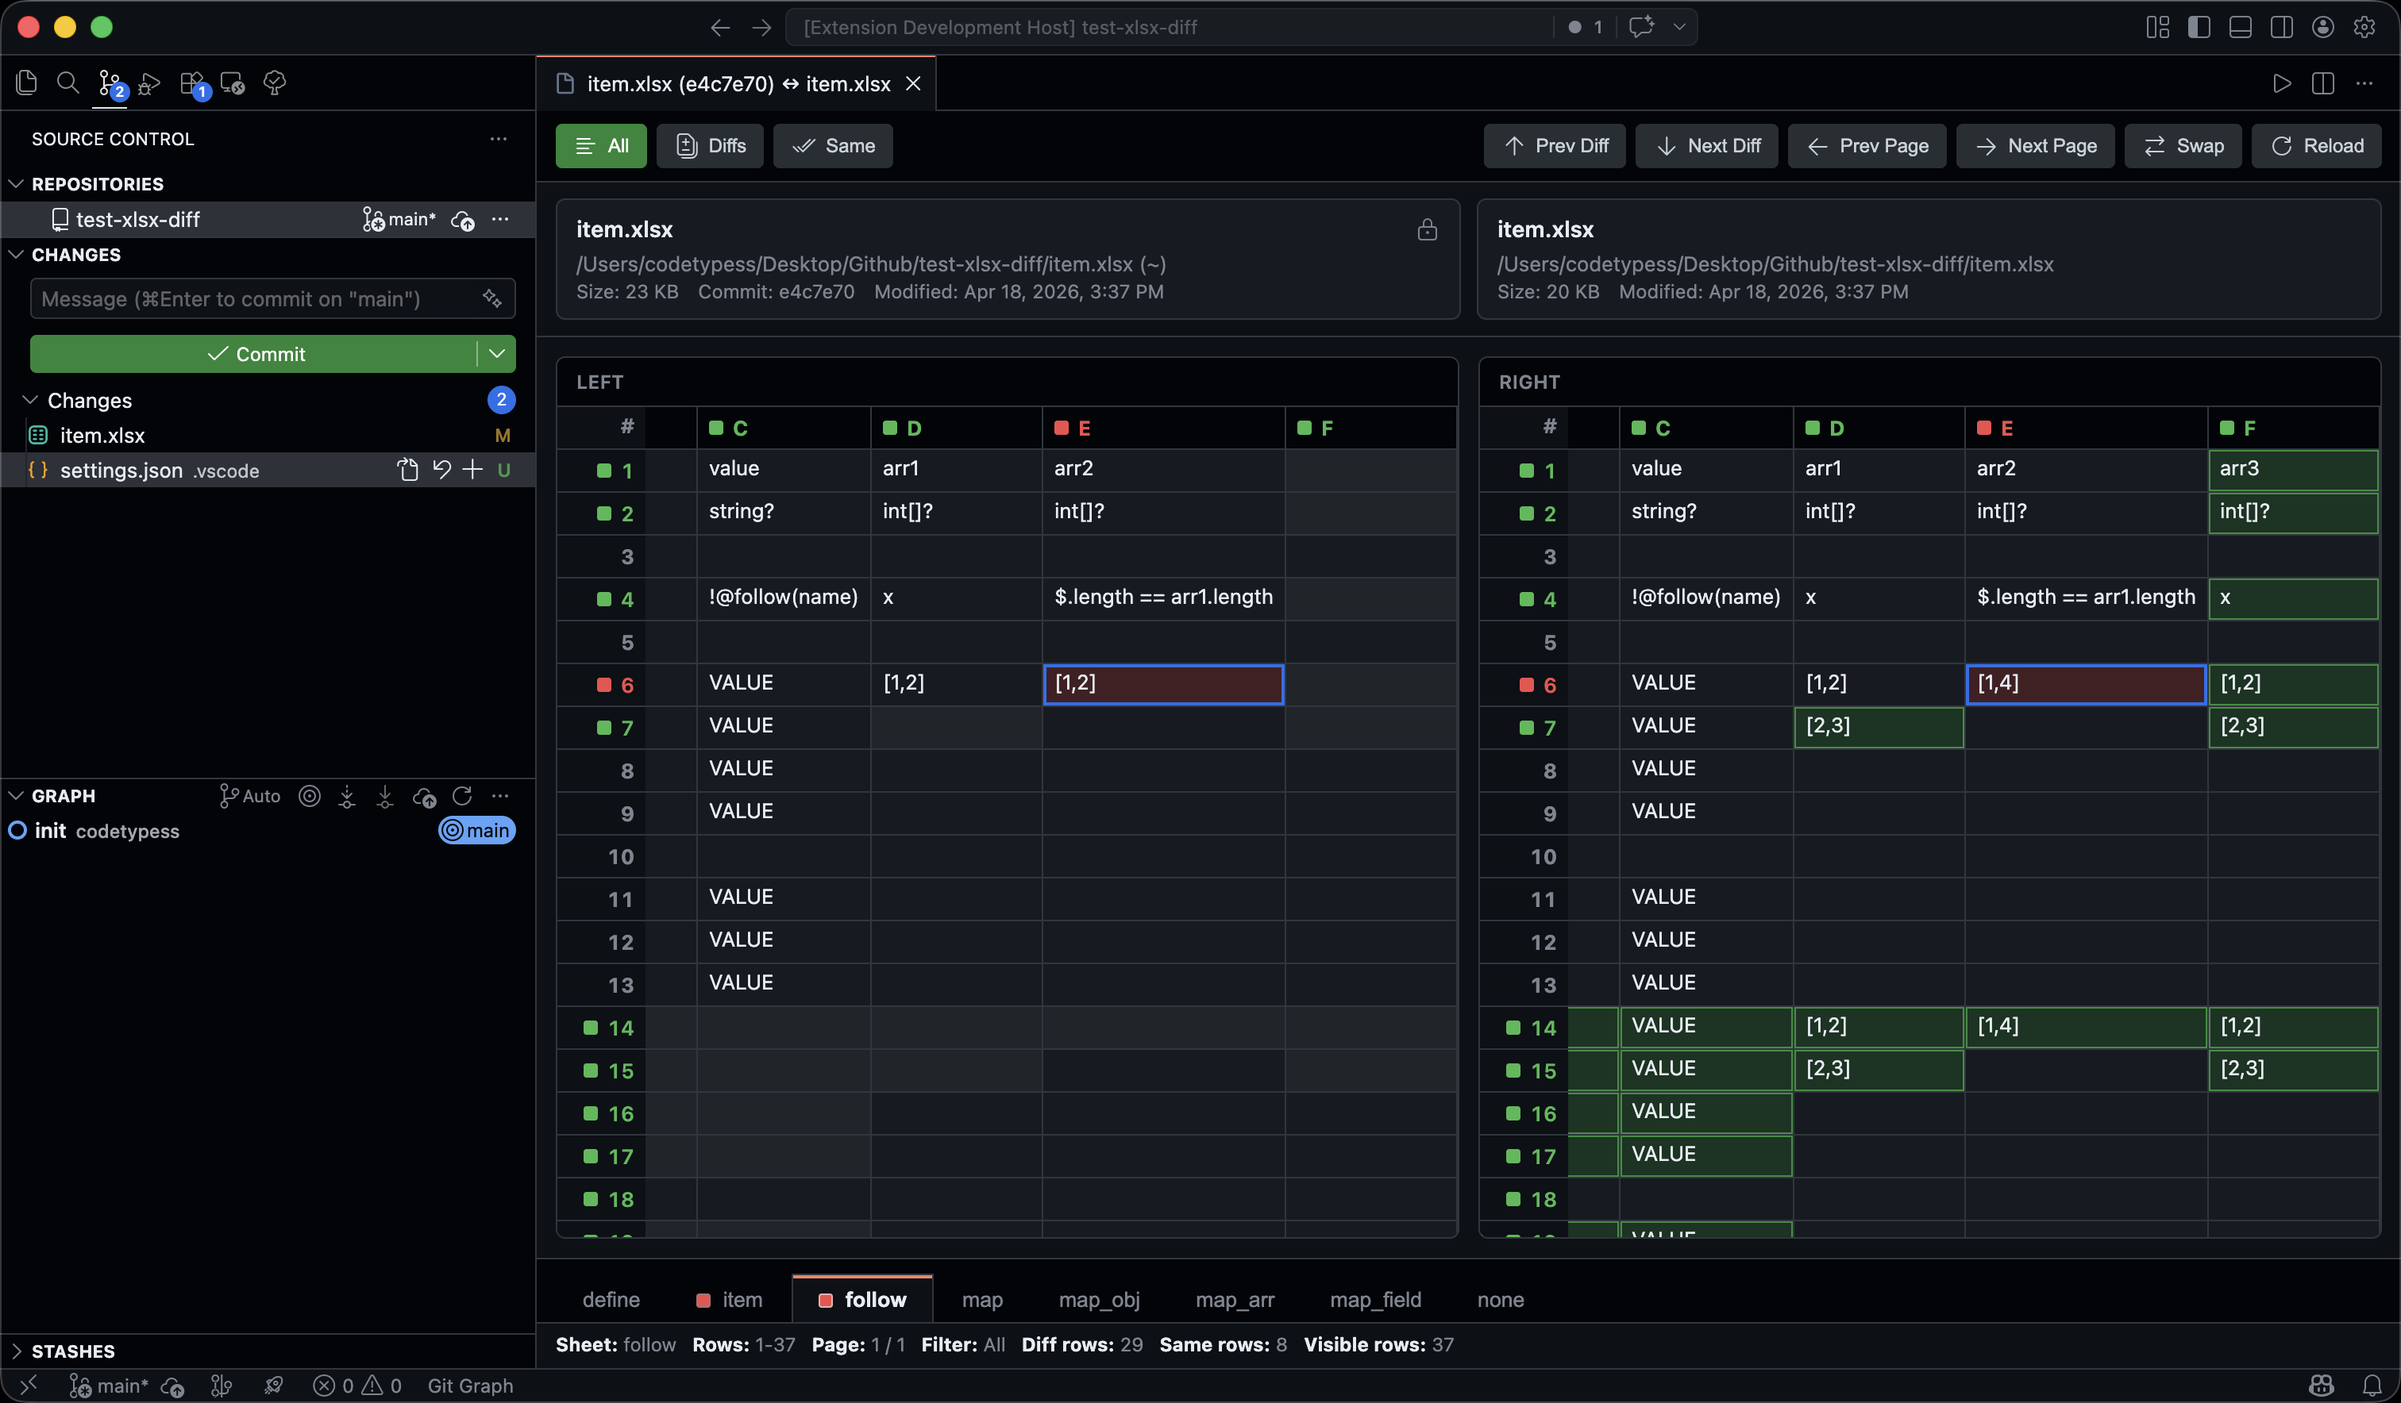
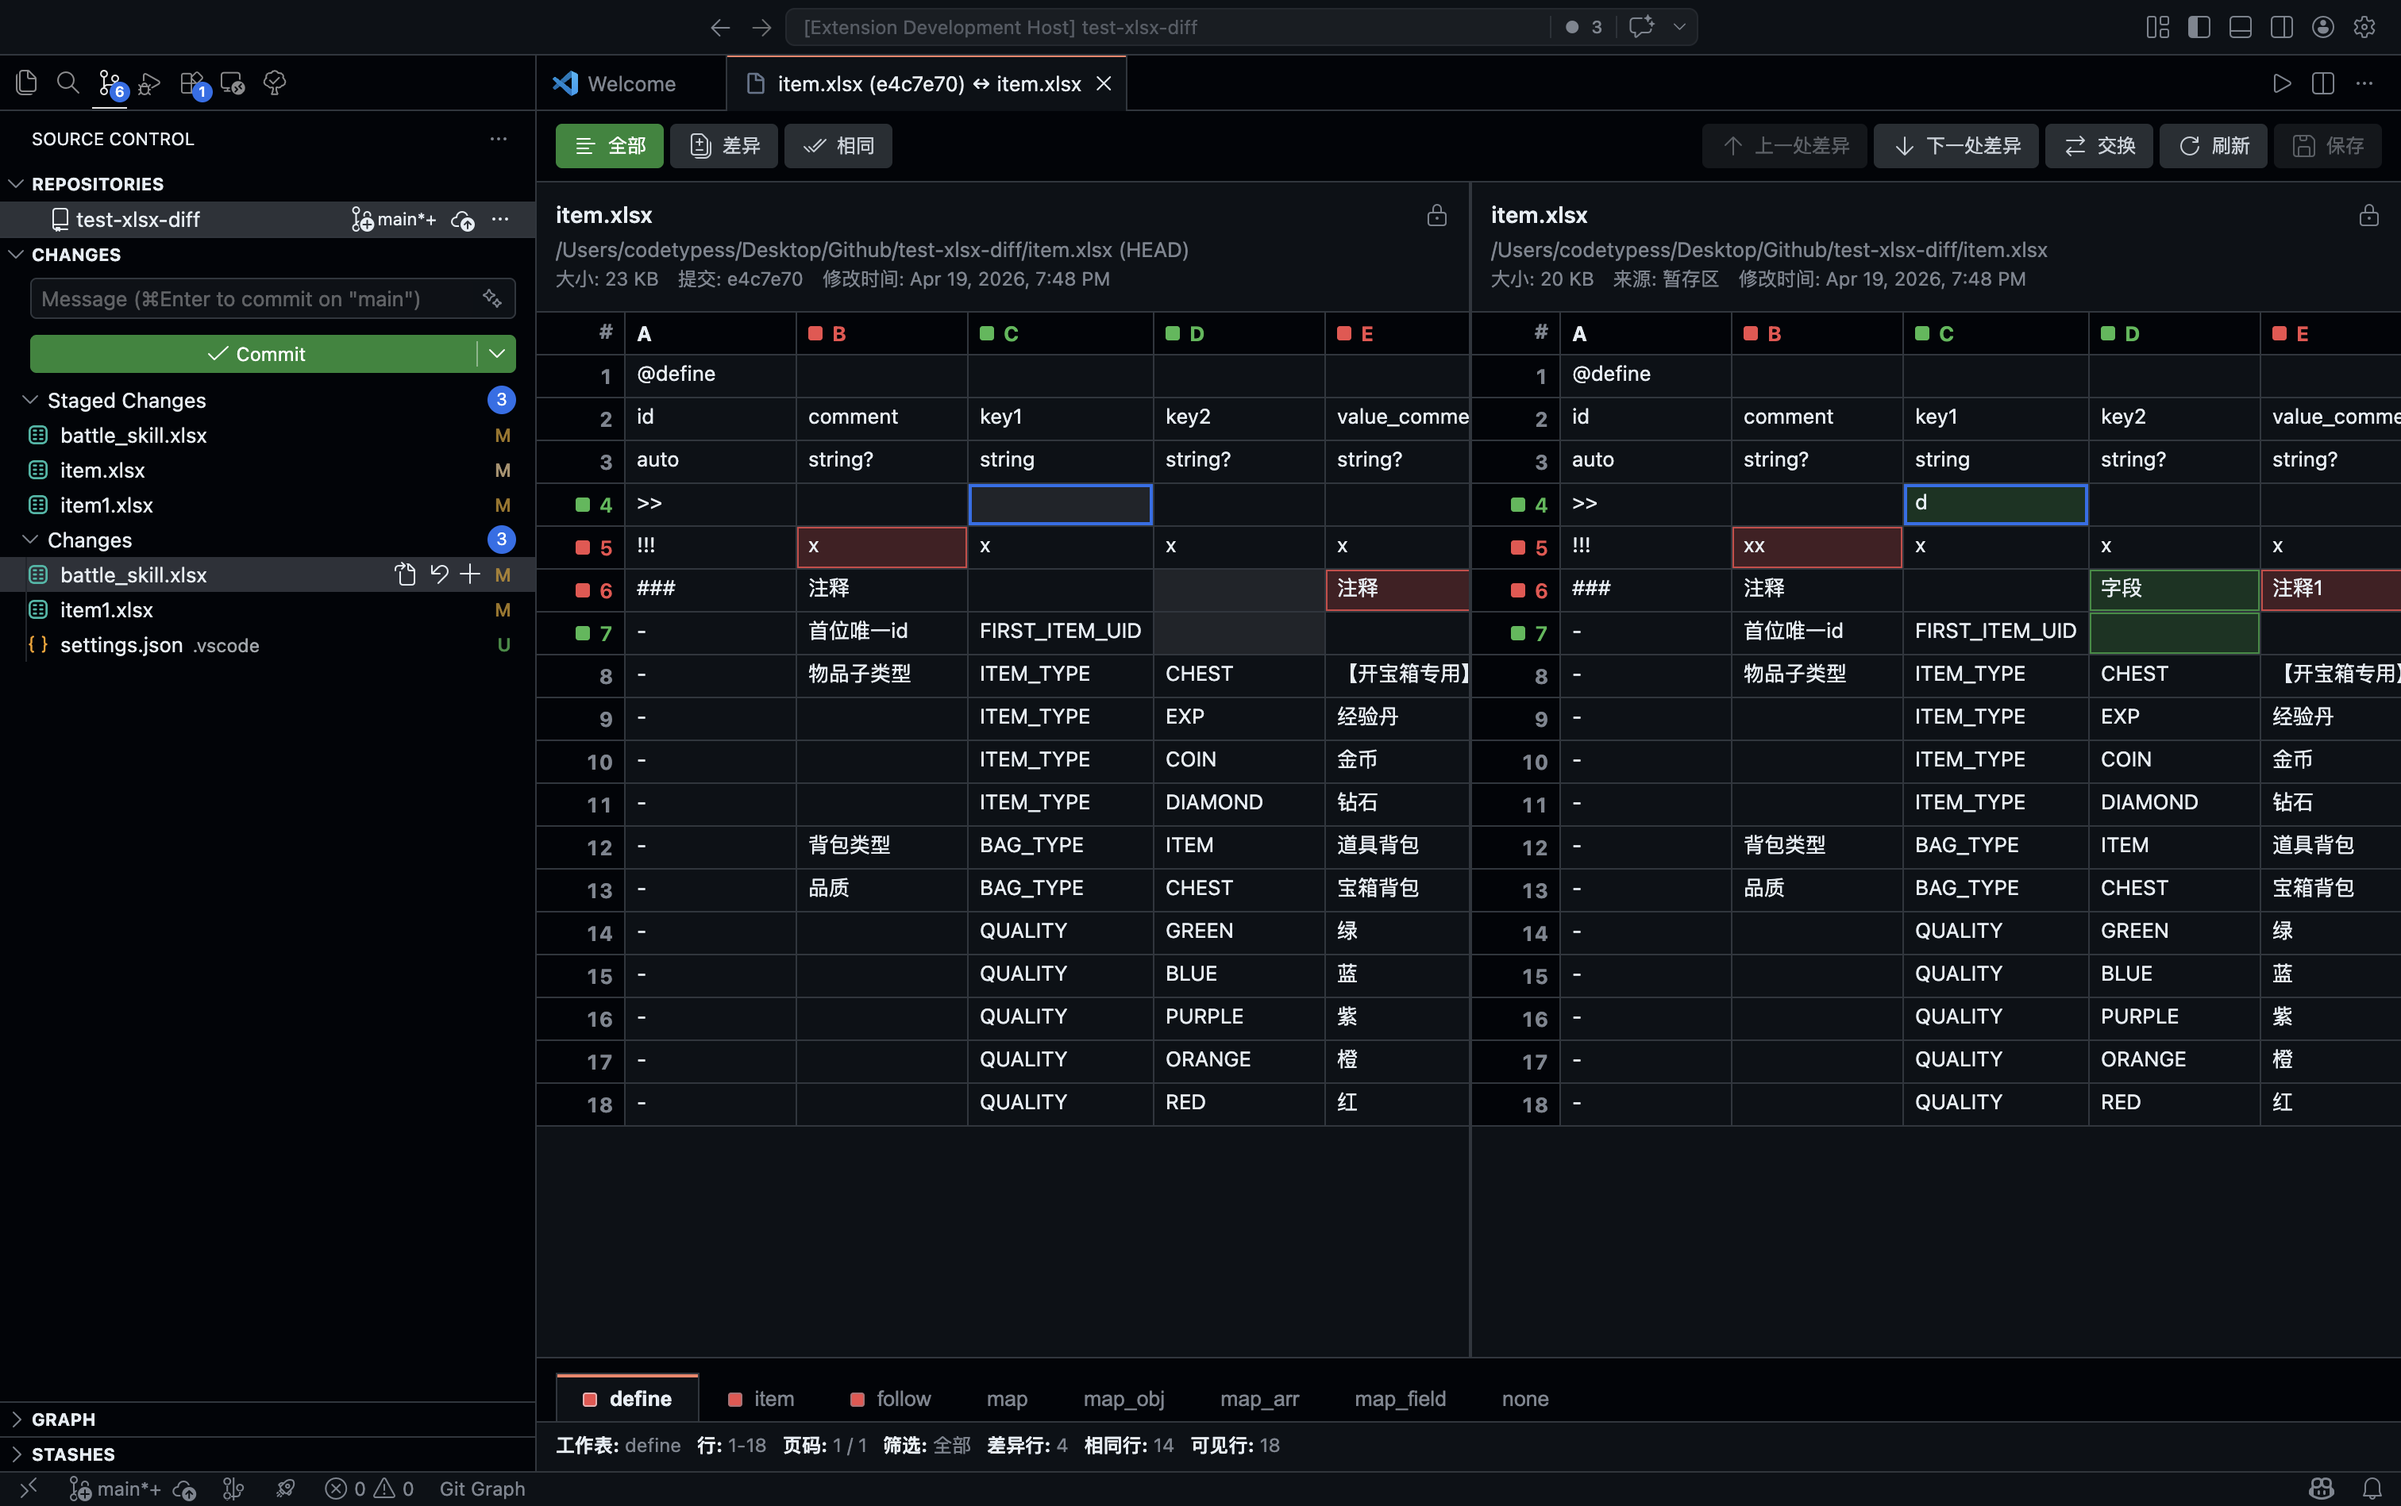
Polish diff panel layout

diff --git a/src/webview/diffPanelApp.tsx b/src/webview/diffPanelApp.tsx
@@ -971,7 +971,7 @@ function Toolbar({ currentModel }: { currentModel: RenderModel }): React.ReactEl
 
 function FileCard({ file }: { file: WorkbookFileView }): React.ReactElement {
     return (
-        <div className="file-card">
+        <div className="file-card file-card--diff">
             <div className="file-card__name" title={file.filePath}>
                 <span className="file-card__name-text">{file.fileName}</span>
                 {file.isReadonly ? (
@@ -1233,23 +1233,15 @@ function Pane({
     currentModel,
     pendingSummary,
     side,
-    title,
 }: {
     currentModel: RenderModel;
     pendingSummary: PendingSummary;
     side: Side;
-    title: string;
 }): React.ReactElement {
     return (
-        <section className="pane" data-side={side}>
-            <div className="pane__header">
-                <div className="pane__title">{title}</div>
-                {currentModel.activeSheet.mergedRangesChanged ? (
-                    <span className="badge badge--warn">{STRINGS.mergedRangesChanged}</span>
-                ) : null}
-            </div>
+        <section className="pane pane--diff" data-side={side}>
             <div
-                className="pane__table"
+                className="pane__table pane__table--diff"
                 data-side={side}
                 onScroll={(event) => syncPaneScroll(event.currentTarget)}
             >
@@ -1365,22 +1357,20 @@ function DiffApp({ view }: { view: Extract<ViewState, { kind: "app" }> }): React
     return (
         <div className="app">
             <Toolbar currentModel={view.model} />
-            <section className="files">
+            <section className="files files--diff">
                 <FileCard file={view.model.leftFile} />
                 <FileCard file={view.model.rightFile} />
             </section>
-            <section className="panes">
+            <section className="panes panes--diff">
                 <Pane
                     currentModel={view.model}
                     pendingSummary={pendingSummary}
                     side="left"
-                    title={STRINGS.left}
                 />
                 <Pane
                     currentModel={view.model}
                     pendingSummary={pendingSummary}
                     side="right"
-                    title={STRINGS.right}
                 />
             </section>
             <Status currentModel={view.model} pendingSummary={pendingSummary} />

diff --git a/media/panel.css b/media/panel.css
@@ -268,6 +268,12 @@ body {
     grid-template-columns: minmax(0, 1fr);
 }
 
+.files--diff {
+    gap: 0;
+    padding: 0;
+    border-bottom: 0;
+}
+
 .file-card {
     padding: 10px 12px;
     border: 1px solid var(--vscode-panel-border);
@@ -277,6 +283,18 @@ body {
         color-mix(in srgb, var(--vscode-editor-background) 91%, white 9%)
     );
     min-width: 0;
+}
+
+.file-card--diff {
+    padding: 12px;
+    border: 0;
+    border-radius: 0;
+    background: transparent;
+    border-bottom: 1px solid var(--vscode-panel-border);
+}
+
+.files--diff .file-card--diff + .file-card--diff {
+    border-left: 2px solid var(--vscode-panel-border);
 }
 
 .file-card__name {
@@ -334,6 +352,11 @@ body {
     padding: 0;
 }
 
+.panes--diff {
+    gap: 0;
+    padding: 0;
+}
+
 .pane {
     min-width: 0;
     min-height: 0;
@@ -354,6 +377,17 @@ body {
     border-radius: 0;
     background: transparent;
     grid-template-rows: minmax(0, 1fr);
+}
+
+.pane--diff {
+    border: 0;
+    border-radius: 0;
+    background: transparent;
+    grid-template-rows: minmax(0, 1fr);
+}
+
+.panes--diff .pane--diff + .pane--diff {
+    border-left: 2px solid var(--vscode-panel-border);
 }
 
 .pane__header {
@@ -389,10 +423,19 @@ body {
     display: none;
 }
 
+.pane--diff .pane__header {
+    display: none;
+}
+
 .pane__table {
     position: relative;
     min-height: 0;
     overflow: auto;
+}
+
+.pane__table--diff {
+    background: var(--vscode-editor-background);
+    height: 100%;
 }
 
 .pane--editor .pane__table {
@@ -473,6 +516,20 @@ body {
     z-index: 4;
 }
 
+.pane__table--diff .grid thead th:first-child {
+    background: var(
+        --vscode-sideBarSectionHeader-background,
+        color-mix(in srgb, var(--vscode-editor-background) 88%, white 12%)
+    );
+}
+
+.pane__table--diff .grid th:first-child {
+    background: var(
+        --vscode-sideBarSectionHeader-background,
+        color-mix(in srgb, var(--vscode-editor-background) 88%, white 12%)
+    );
+}
+
 .grid--split {
     min-width: auto;
 }
@@ -494,6 +551,13 @@ body {
 
 .grid--split .grid__row-number {
     background: color-mix(in srgb, var(--vscode-editor-background) 94%, black 6%);
+}
+
+.pane__table--diff .grid--split .grid__row-number {
+    background: var(
+        --vscode-sideBarSectionHeader-background,
+        color-mix(in srgb, var(--vscode-editor-background) 88%, white 12%)
+    );
 }
 
 .grid__column--frozen,
